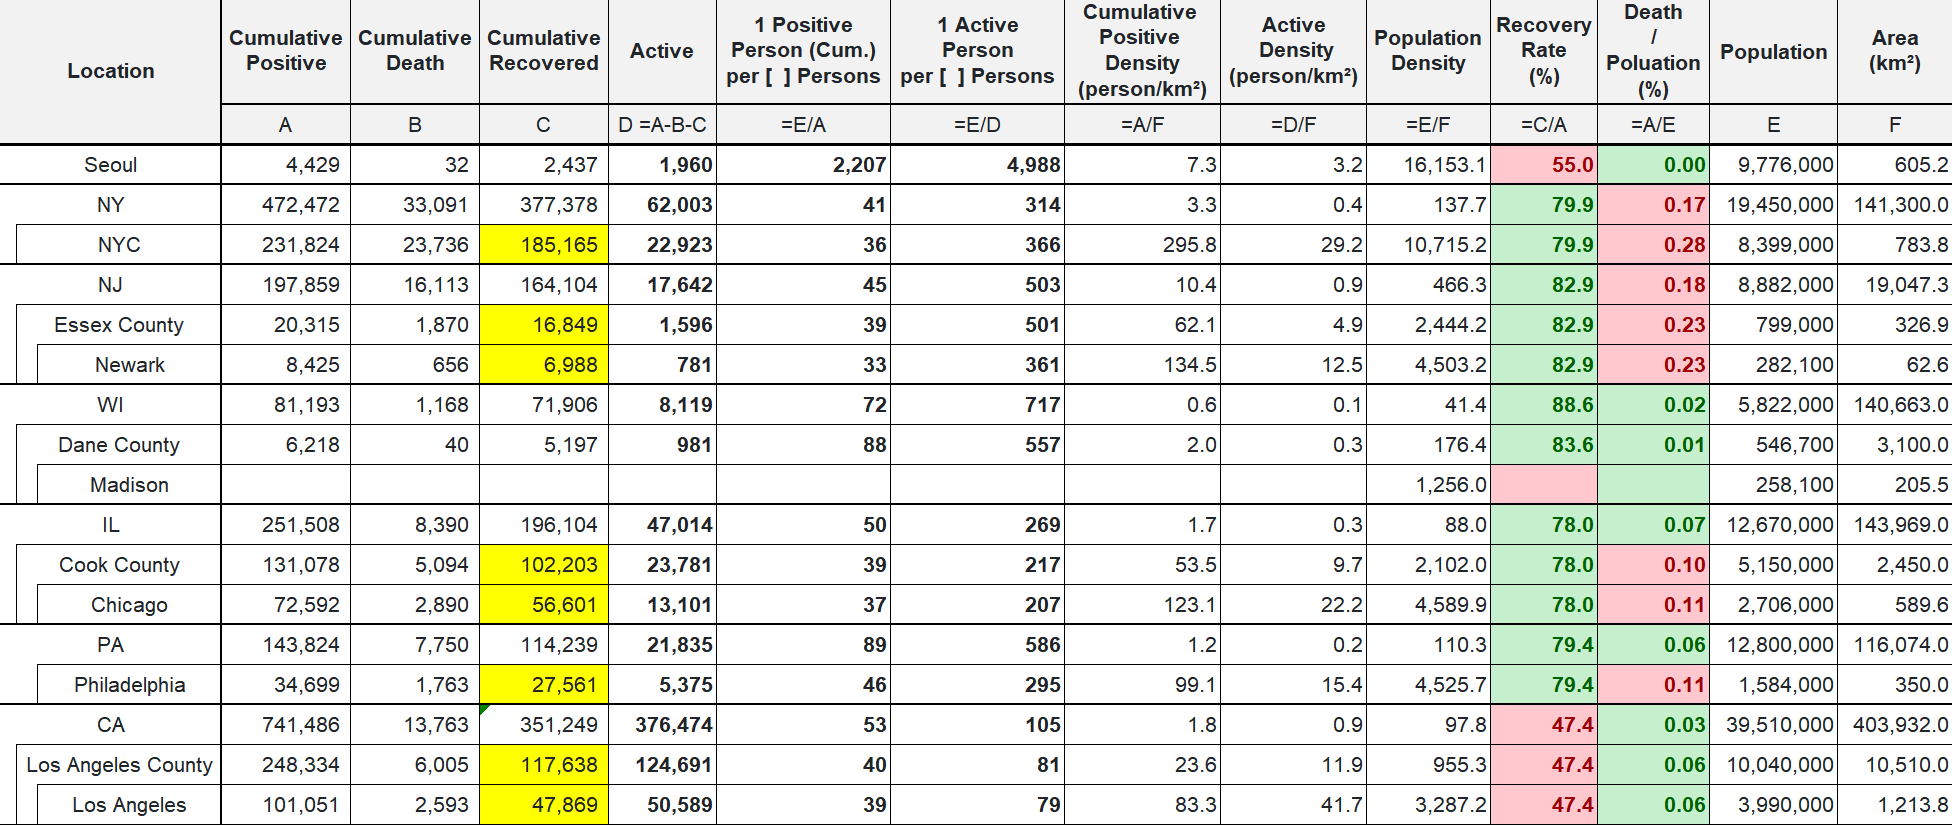
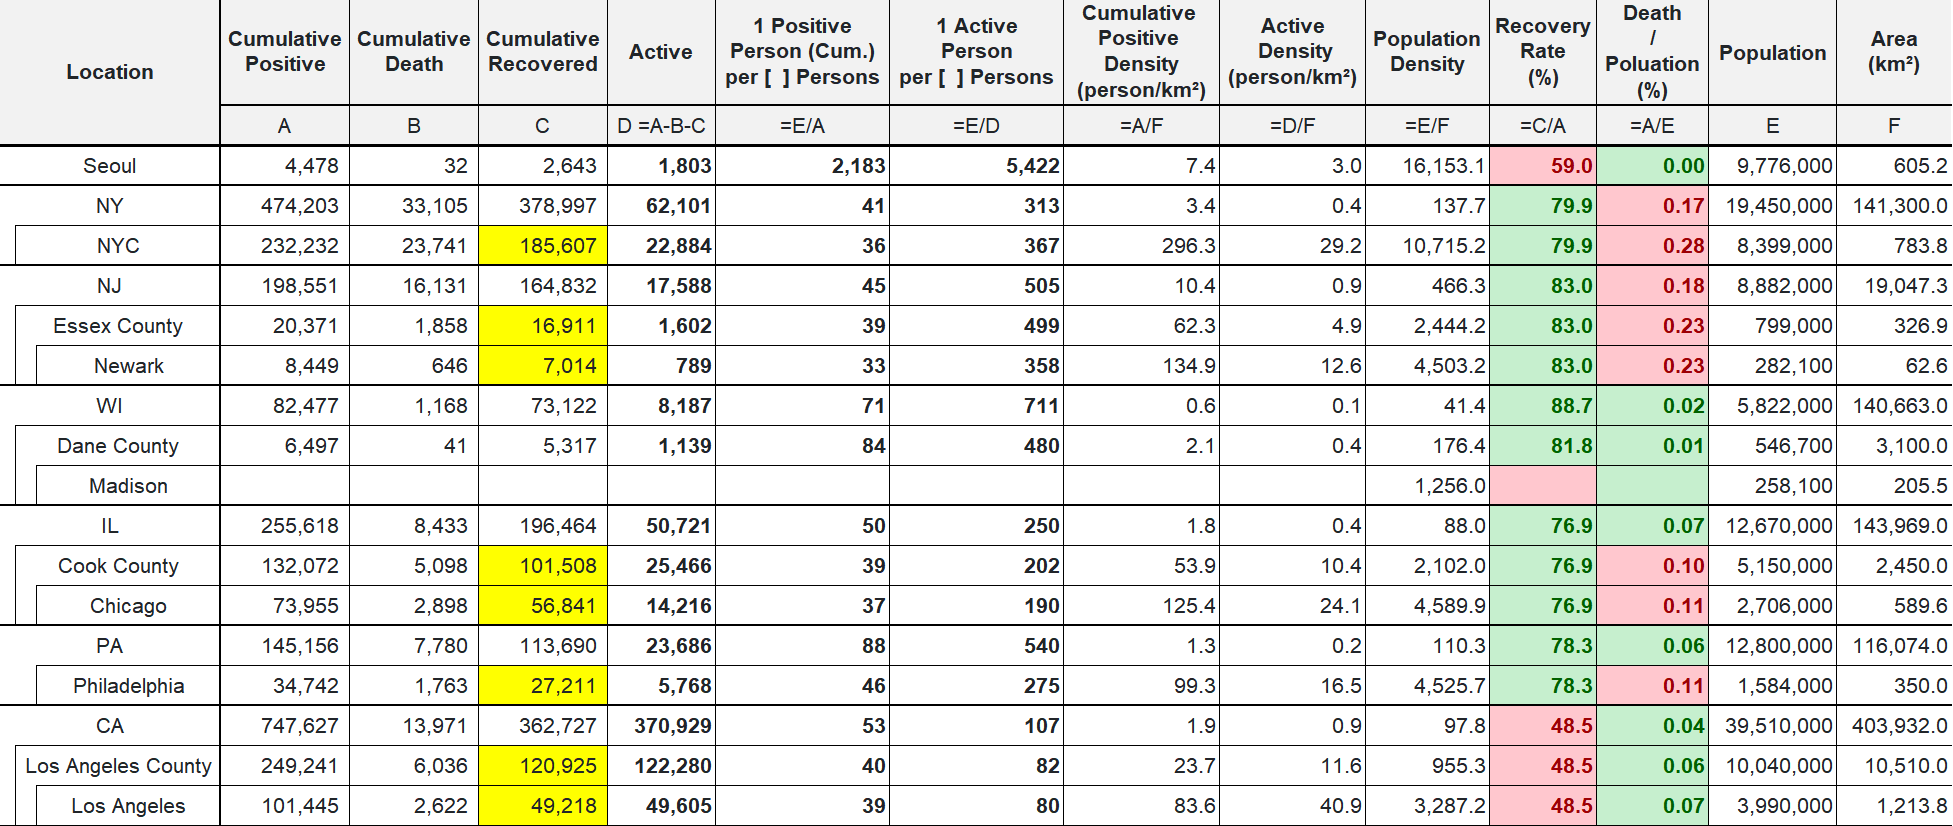
update 9/9 status

Changed region(s): [[0.0, 0.0, 1.0, 1.0], [0.0312, 0.0605, 0.0938, 0.1211]]

diff --git a/index.html b/index.html
@@ -19,7 +19,7 @@
 
 <body class="container-fluid">
 	<h1> CoronaV for Friends</h1>
-	<h2> Data updated at Sep 07 2020 EST 21:40</h2>
+	<h2> Data updated at Sep 09 2020 EST 20:10</h2>
 	<hr>
 	<main>
 		<div class="row">
